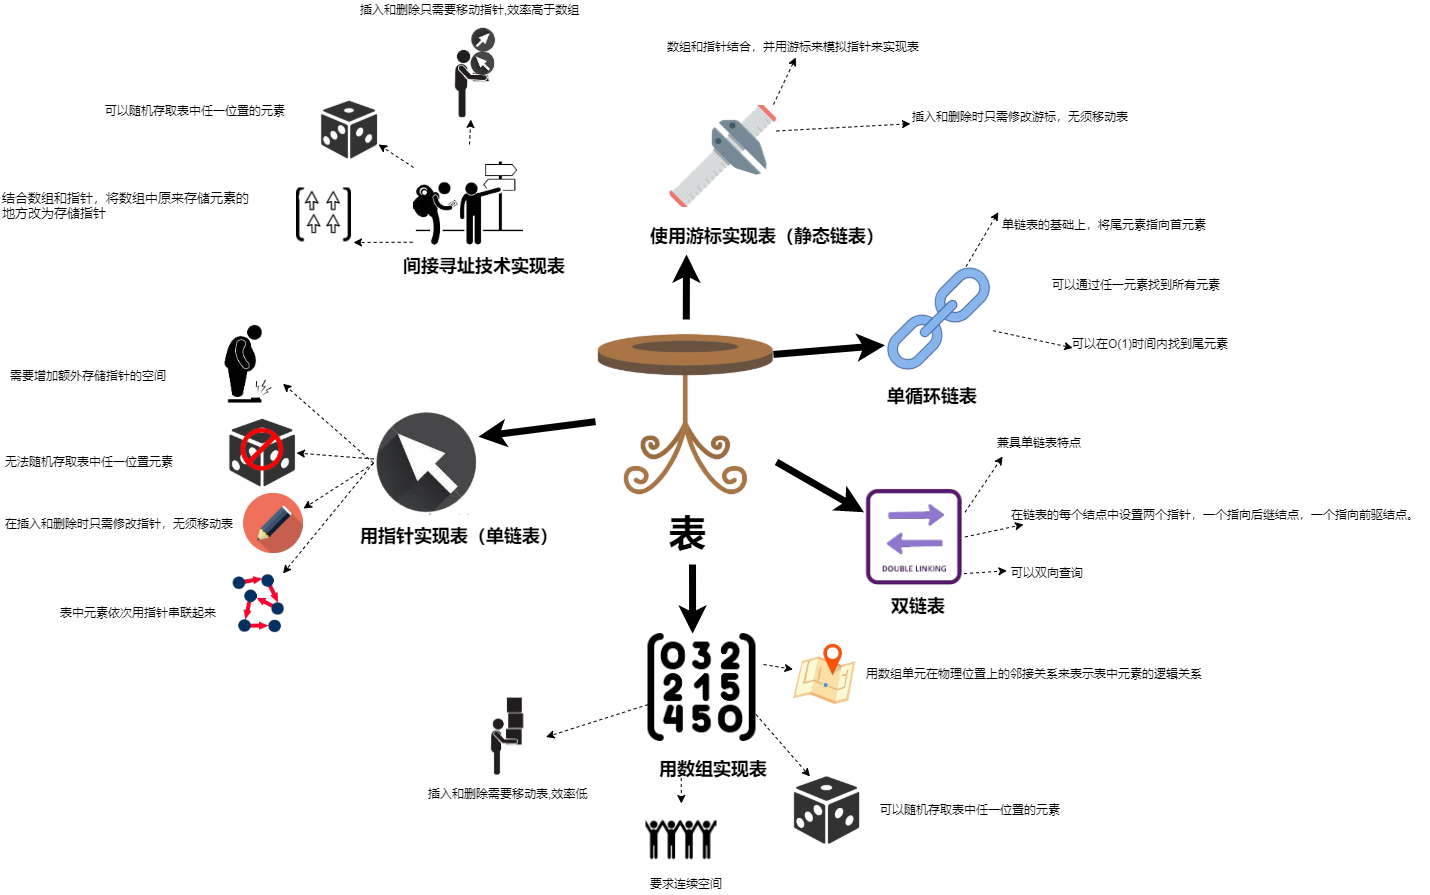
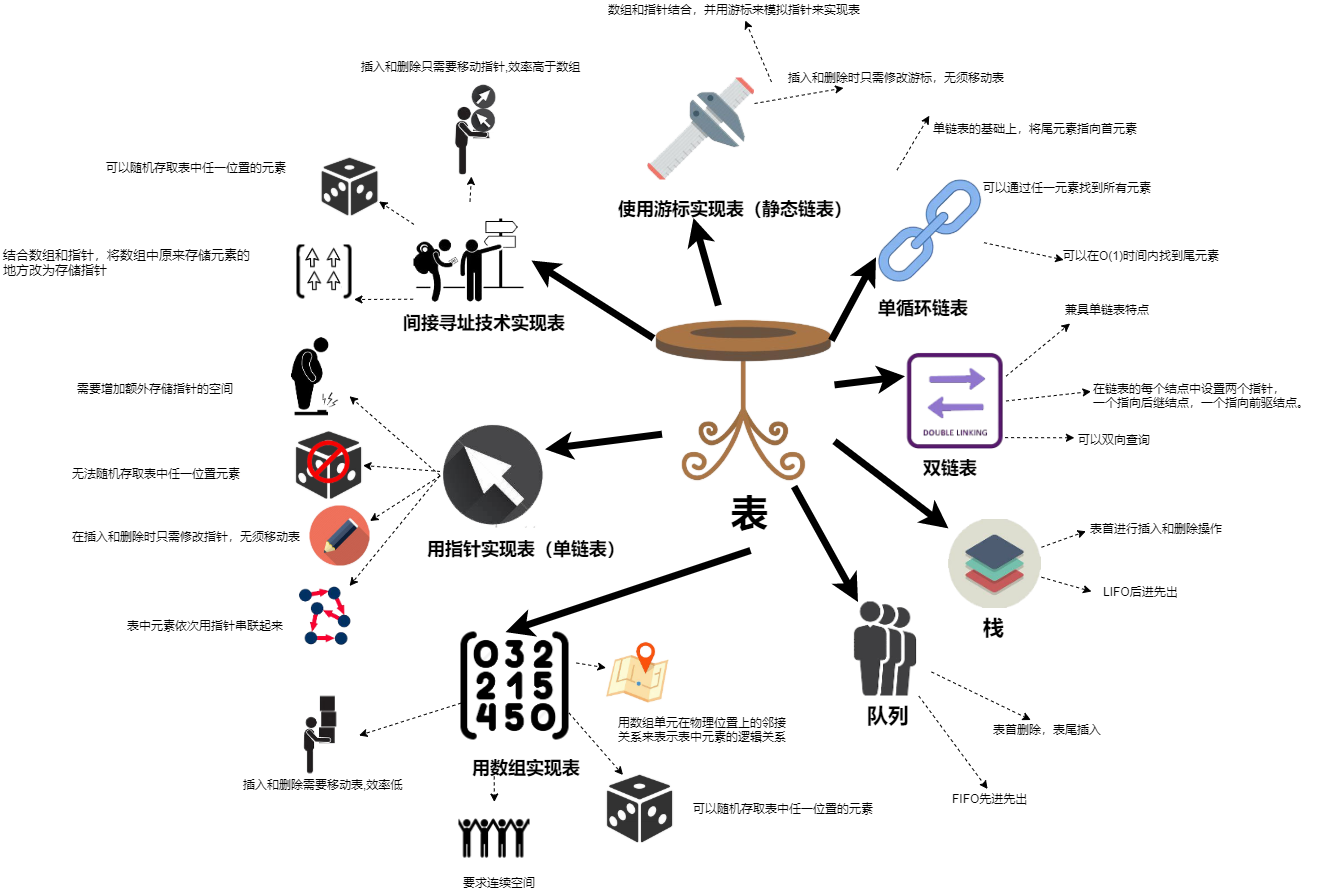
排序算法

diff --git a/数据结构/chapter_5/README.md b/数据结构/chapter_5/README.md
@@ -1,5 +1,7 @@
 # 排序与选择算法
 
+<img src="./../img/数据结构-第三章 排序算法.png">
+
 排序问题的实质: 按照某个线性序对一些对象进行排列,键值小的在前,键值大的在后.
 
 待排序数组段为 a[l]~a[r]
@@ -9,8 +11,8 @@
   * 冒泡排序:
     * 基本思想: 把排序纪录看成竖排 **"气泡"** ,键值小的 **上浮**
     * 分析方法:
-      * 从底层处理元素 x 开始
-      * x 向下相邻元素依次比较,小的上浮
+      * 从底层开始向上遍历处理元素
+      * 所谓处理是元素往下依次比较，最终将较小的元素交换至最上层
   * 插入排序:
     * 基本思想: 检查数组中的每个元素,将其插入到一个已排好序的数组中,使数组依然有序.
     * 分析方法:
@@ -20,9 +22,9 @@
   * 选择排序:
     * 基本思想: 从待排序数组中选择最小的元素放在已排序的数组后面.
     * 分析方法:
-      * 遍历每个待排序元素 x (除最后一个)
-      * 找出x之后未排序元素的最小值 y 的位置 p
-      * 比较 x和y,如果 y小于x,则交换他们的位置
+      * 先从待排序纪录中选出最小值放在第一位
+      * 从剩下的纪录中选出次小值放在第二位
+      * 依此类推
 
 快速排序算法:
   * 基于元素间比较
@@ -69,3 +71,16 @@
     * 时间复杂性：O(wn)
       * 计数排序算法中涉及的元素存在上界，为基数(RADIX),所以复杂性为 O(n)
       * 计数排序循环次数为最大值的位数 w
+      * 时间复杂为O(wn)
+中位数与第k小元素：
+  * 平均情况下的线性时间选择算法 
+    * 基本思想： 
+      * 模仿快速排序算法设计出来的
+      * 对输入数组进行递归划分 
+      * 对划分出来的子数组之一进行递归处理
+    * 时间复杂性：
+      * 最坏情况下，算法需要O(n2)
+      * 平均情况下，需要O(n)
+  * 最坏情况下的线性时间选择算法
+    * 
+

diff --git a/数据结构/chapter_2/README.md b/数据结构/chapter_2/README.md
@@ -65,3 +65,36 @@
     * 可以双向查询
   * 缺点:
     * 需要额外存储两个指针
+**栈**:
+  * 概念:
+    * 只在表首进行插入和删除操作
+    * LIFO 后进先出
+  * 基本运算:
+    * 空 StackEmpty(S): 测试栈S是否为空
+    * 满 StackFull(S): 测试栈 S 是否已满
+    * 返 StackTop(S): 返回栈 S 的栈顶元素
+    * 推 Push(x,S): 在栈 S 的栈顶插入元素x
+    * 取 Pop(S): 删除并返回栈顶元素
+  * 实现方法:
+    * 数组: 数组的最后一个数组做为栈顶top
+    * 指针: 最后一个元素的指针做为栈顶.
+
+**队列**:
+  * 概念:
+    * 表首删除,表尾插入
+    * FIFO 先进先出
+  * 基本运算:
+    * 空 QueueEmpty(Q): 队列是否为空
+    * 满 QueueFull(Q): 是否已满
+    * 首 QueueFirst(Q): 返回队首
+    * 尾 QueueLast(Q): 返回队尾
+    * 插入 EnterQueue(x,Q): 队尾插入x
+    * 删除 DeleteQueue(Q): 删除队首,并返回队首元素
+  * 实现方法:
+    * 指针实现: 使用两个指针 ,一个指向队首,一个指向队尾
+    * 循环数组实现
+  * 步骤:
+    * 定义队列元素
+    * 定义队列结点
+    * 定义队列
+    * 定义队列运算

diff --git a/数据结构/README.md b/数据结构/README.md
@@ -1,3 +1,7 @@
 # 数据结构
 
 <a href="./chapter_1/README.md">第一章 引论</a>
+
+<a href="./chapter_2/README.md">第二章 表</a>
+
+<a href="./chapter_5/README.md">第三章 排序算法</a>
